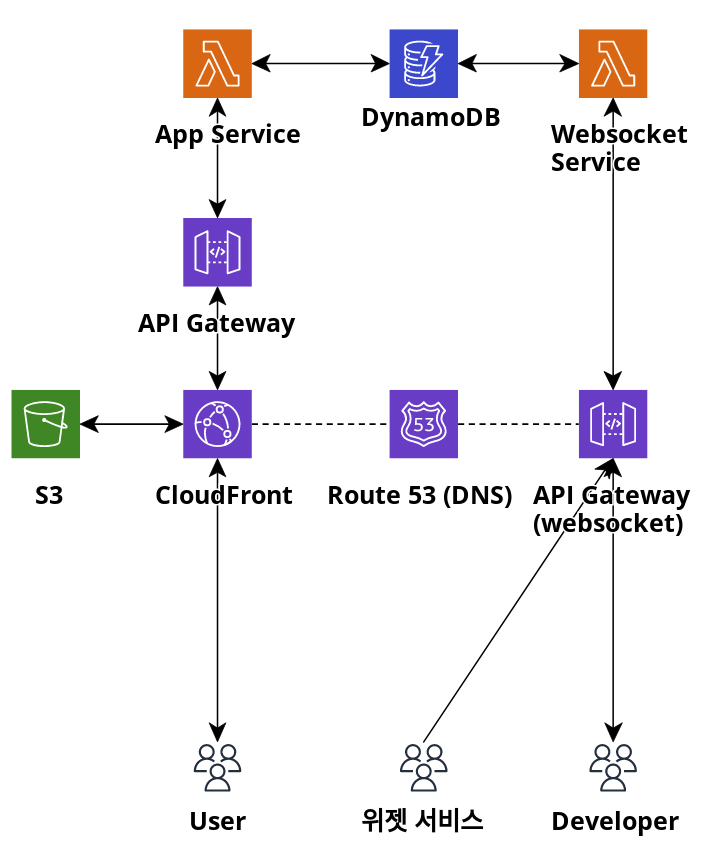
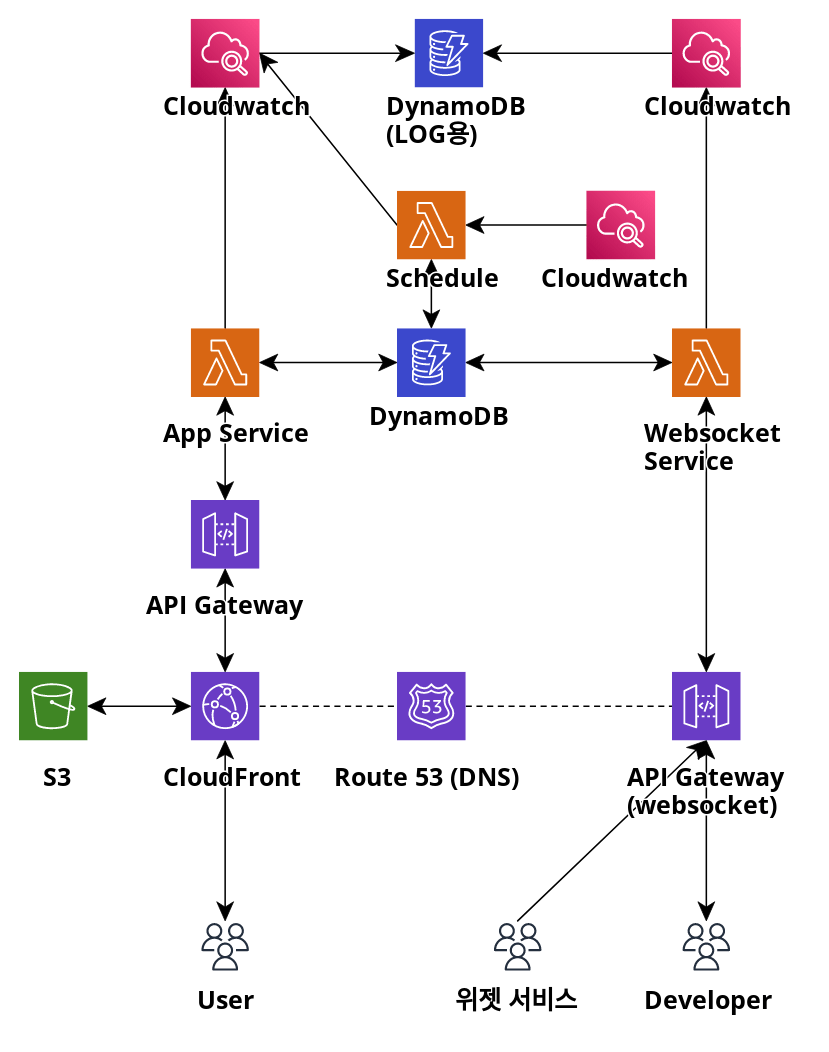
Fix: 소켓 커넥션 체크 기능 추가 및 커넥션 TTL 갱신 로직 변경

diff --git a/libraries/awsDynamodb.js b/libraries/awsDynamodb.js
@@ -73,39 +73,6 @@ class awsDynamodb {
   }
 
   /**
-   * get unique SK
-   * @description 중복되지 않는 정렬키를 생성합니다.
-   * @param {string} PK 파티션키 (required)
-   * @param {string} SKI 정렬키 식별자 (required)
-   *  @example ALERTBOX#{ID}의 아이디를 가져올때는 SK에 "ALERTBOX" 입력
-   *  @example CMD#{ID}의 아이디를 가져올때는 SK에 "CMD" 입력
-   * @param {number} length SKI의 길이 (optional)
-   * @returns {object} 결과값
-   */
-  async getUniqueSK(PK, SKI, length = 9) {
-    log.info("┃libraries│awsDynamodb│getUniqueSK");
-    log.info("┃libraries│awsDynamodb│getUniqueSK┃PK", PK);
-    log.info("┃libraries│awsDynamodb│getUniqueSK┃SKI", SKI);
-    log.info("┃libraries│awsDynamodb│getUniqueSK┃length", length);
-
-    if (!PK) throw new Error("PK is required");
-    if (!SKI) throw new Error("SKI is required");
-
-    let SK;
-    do {
-      let rand = [];
-      const letters =
-        "abcdefghijklmnopqrstuvwxyzABCDEFGHIJKLMNOPQRSTUVWXYZ0123456789";
-      for (let i = 0; i < length; i++) {
-        rand.push(letters[Math.floor(Math.random() * letters.length)]);
-      }
-      SK = SKI + rand.join("");
-    } while (await this.getItem(PK, SK));
-
-    return SK;
-  }
-
-  /**
    * get unique PK
    * @description 전체 파티션에 걸쳐 중복되지 않는 uuid를 생성합니다.
    * @warning PK나 SK에 사용하는 키는 getUniqueSK를 사용하세요.
@@ -172,32 +139,31 @@ class awsDynamodb {
 
     if (!item.PK) throw new Error("PK is required");
 
-    const data = { ...item };
-    delete data.PK;
-    if (data?.SK) delete data.SK;
-    if (Object.keys(data).length == 0)
-      throw new Error("Update data is required");
-
-    let UpdateExpression = "SET";
-    let ExpressionAttributeNames = {};
-    let ExpressionAttributeValues = {};
-    let i = 0;
-    for (const [key, value] of Object.entries(data)) {
-      UpdateExpression += ` #${key} = :${key},`;
-      ExpressionAttributeNames[`#${key}`] = key;
-      ExpressionAttributeValues[`:${key}`] = value;
-      i++;
-    }
-
-    UpdateExpression = UpdateExpression.slice(0, -1);
-
+    // PK와 SK를 조건으로하고 그 외의 키를 업데이트합니다.
+    // SK가 없으면 PK만 조건으로 업데이트합니다.
     const params = {
       TableName: this.table,
       Key: marshall({ PK: item.PK, SK: item.SK }),
-      UpdateExpression,
-      ExpressionAttributeNames,
-      ExpressionAttributeValues,
+      UpdateExpression: `SET ${Object.keys(item)
+        .filter((key) => key !== "PK" && key !== "SK")
+        .map((key) => `#${key} = :${key}`)
+        .join(", ")}`,
+      ExpressionAttributeValues: marshall(
+        Object.keys(item)
+          .filter((key) => key !== "PK" && key !== "SK")
+          .reduce((acc, key) => {
+            acc[`:${key}`] = item[key];
+            return acc;
+          }, {})
+      ),
+      ExpressionAttributeNames: Object.keys(item)
+        .filter((key) => key !== "PK" && key !== "SK")
+        .reduce((acc, key) => {
+          acc[`#${key}`] = key;
+          return acc;
+        }, {}),
     };
+    log.info("┃libraries│awsDynamodb│updateItem┃params", params);
 
     const command = new UpdateItemCommand(params);
     return await this.client.send(command);

diff --git a/handler/schedule.js b/handler/schedule.js
@@ -1,0 +1,97 @@
+const awsApiGateway = require("../libraries/awsApiGateway");
+const awsDynamoDB = require("../libraries/awsDynamodb");
+
+// log용 전역변수
+console.log(">> process.env.DEBUG", process.env.DEBUG);
+global.log = require("../libraries/log");
+
+exports.handler = async (event, context) => {
+  log.info("==== SCHEDULE START ====");
+
+  const apigw = new awsApiGateway();
+  const dynamodb = new awsDynamoDB();
+
+  // CONNECTION 정보 조회
+  let result = {
+    Items: [],
+    LastEvaluatedKey: null,
+  };
+  let items = [];
+  do {
+    result = await dynamodb.queryItems({
+      KeyConditionExpression: "PK = :PK",
+      ExpressionAttributeValues: {
+        ":PK": `CONNECTION`,
+      },
+      ProjectionExpression: "SK",
+      ExclusiveStartKey: result?.LastEvaluatedKey,
+    });
+    if (result.Items.length > 0) items = items.concat(result.Items);
+  } while (result.LastEvaluatedKey);
+
+  // connection id 별로 정리
+  const connections = {};
+  for (const item of items) {
+    const connectionId = item.SK.split("#")[1];
+    if (!connections[connectionId]) {
+      connections[connectionId] = [];
+    }
+    connections[connectionId].push(item.SK);
+  }
+  log.info("┃handler│schedule│check┃connections", JSON.stringify(connections));
+
+  // 커넥션 별로 반복하면서 check 이벤트 전송
+  // 전송 실패시 3회 재시도
+  // 3회 재시도 실패시 커넥션 삭제
+  for (const connectionId in connections) {
+    const connection = connections[connectionId];
+    let retry = 0;
+    let success = false;
+    while (!success && retry < 3) {
+      try {
+        log.info("┃handler│schedule│check┃send", connectionId);
+        await apigw.sendMessage({
+          ConnectionId: connectionId,
+          Data: "CHECK\t" + connectionId,
+        });
+        success = true;
+      } catch (e) {
+        log.error("┃handler│schedule│check┃send fail", connectionId);
+        retry++;
+      }
+    }
+    if (success) {
+      for (const item of connection) {
+        log.info("┃handler│schedule│check┃update", item);
+        await dynamodb.updateItem({
+          PK: `CONNECTION`,
+          SK: item,
+          ttl: Math.floor(Date.now() / 1000) + 60 * 6 /* 6분 */,
+        });
+      }
+    } else {
+      for (const item of connection) {
+        log.info("┃handler│schedule│check┃delete", item);
+        await dynamodb.deleteItem({
+          PK: `CONNECTION`,
+          SK: item,
+        });
+      }
+      log.info("┃handler│schedule│check┃delete", connectionId);
+      try {
+        await apigw.deleteConnection(connectionId);
+      } catch (e) {
+        log.error("┃handler│schedule│check┃delete fail", connectionId);
+      }
+    }
+  }
+
+  log.info("==== SCHEDULE END ====");
+
+  return {
+    statusCode: 200,
+    body: JSON.stringify({
+      count: Object.keys(connections).length,
+    }),
+  };
+};

diff --git a/handler/websocket.js b/handler/websocket.js
@@ -7,21 +7,24 @@ global.log = require("../libraries/log");
 
 // 소켓 커넥션
 module.exports.connect = async (event) => {
-  log.info("==== WEB SOCKET START ====")
+  log.info("==== WEB SOCKET START ====");
   log.info("┃handler│websocket│connect┃event", JSON.stringify(event, null, 2));
   log.info("┃handler│websocket│connect");
   return { statusCode: 200 };
 };
 
 module.exports.disconnect = async () => {
-  log.info("==== WEB SOCKET START ====")
-  log.info("┃handler│websocket│disconnect┃event", JSON.stringify(event, null, 2));
+  log.info("==== WEB SOCKET START ====");
+  log.info(
+    "┃handler│websocket│disconnect┃event",
+    JSON.stringify(event, null, 2)
+  );
   log.info("┃handler│websocket│disconnect");
   return { statusCode: 200 };
 };
 
 module.exports.message = async (event) => {
-  log.info("==== WEB SOCKET START ====")
+  log.info("==== WEB SOCKET START ====");
   log.info("┃handler│websocket│message┃event", JSON.stringify(event, null, 2));
   log.info("┃handler│websocket│message");
 
@@ -49,21 +52,6 @@ module.exports.message = async (event) => {
     log.info("┃handler│websocket│message┃connection", connection);
 
     if (connection) {
-      // TTL 연장
-      if (connection.ttl > Math.floor(Date.now() / 1000)) {
-        log.info("┃handler│websocket│message┃TTL", connectionId);
-        await dynamodb.updateItemDetail(
-          { PK: `CONNECTION`, SK: `CONNECTION#${connectionId}` },
-          "SET #ttl = :ttl",
-          "begins_with(SK, :SK)",
-          {
-            ":ttl": Math.floor(Date.now() / 1000) + 60 * 5 /* 5분 */,
-            ":SK": `CONNECTION#${connectionId}`,
-          },
-          { "#ttl": "ttl" }
-        );
-      }
-
       // 라우팅
       log.info("┃handler│websocket│message┃routing", command);
       switch (command) {

diff --git a/routes/websocket/cmd.js b/routes/websocket/cmd.js
@@ -31,7 +31,7 @@ module.exports = async function (data, event) {
   await dynamodb.saveItem({
     PK: `CONNECTION`,
     SK: `CONNECTION#${connectionId}`,
-    ttl: Math.floor(Date.now() / 1000) + 60 * 5 /* 5분 */,
+    ttl: Math.floor(Date.now() / 1000) + 60 * 6 /* 6분 */,
     alertbox_idx: alertbox_idx,
     connection_id: connectionId,
     connection_time: Date.now(),
@@ -72,7 +72,7 @@ module.exports = async function (data, event) {
       alertbox_idx: alertbox_idx,
       connection_id: connectionId,
       connection_time: Date.now(),
-      ttl: Math.floor(Date.now() / 1000) + 60 * 5 /* 5분 */,
+      ttl: Math.floor(Date.now() / 1000) + 60 * 6 /* 6분 */,
     })
   }
 }

diff --git a/routes/websocket/join.js b/routes/websocket/join.js
@@ -31,7 +31,7 @@ module.exports = async function (data, event) {
   await dynamodb.saveItem({
     PK: `CONNECTION`,
     SK: `CONNECTION#${connectionId}`,
-    ttl: Math.floor(Date.now() / 1000) + 60 * 5 /* 5분 */,
+    ttl: Math.floor(Date.now() / 1000) + 60 * 6 /* 6분 */,
     alertbox_idx: alertbox_idx,
     connection_id: connectionId,
     connection_time: Date.now(),
@@ -72,7 +72,7 @@ module.exports = async function (data, event) {
       alertbox_idx: alertbox_idx,
       connection_id: connectionId,
       connection_time: Date.now(),
-      ttl: Math.floor(Date.now() / 1000) + 60 * 5 /* 5분 */,
+      ttl: Math.floor(Date.now() / 1000) + 60 * 6 /* 6분 */,
     })
   }
 

diff --git a/routes/websocket/ping.js b/routes/websocket/ping.js
@@ -6,6 +6,7 @@ const awsApiGateway = require("../../libraries/awsApiGateway");
  */
 module.exports = async function (data, event) {
   const apigw = new awsApiGateway();
+  const connectionId = event.requestContext.connectionId;
   return await apigw.sendMessage({
     ConnectionId: connectionId,
     Data: "PING\tPONG",

diff --git a/.github/docs/dynamodb.md b/.github/docs/dynamodb.md
@@ -11,7 +11,7 @@ dynamodb는 AWS의 권장사항에 따라 Single Table Design을 채택하였습
 |||CMD#{ID}|Alert Box Cmd 정보|
 |alertbox uid|ALERTBOX|UID#{UID}|Alert Box UID 매칭 정보|
 |connection|CONNECTION|CONNECTION#{ID}|Socket Connection 정보|
-|||CONNECTION|CONNECTION#{ID}|CONNECTION#{ID}#ROOM#{ROOM}|Connection 연결된 룸 정보|
+||CONNECTION|CONNECTION#{ID}#ROOM#{ROOM}|Connection 연결된 룸 정보|
 |uuid|UUID#{ID}|UUID#{ID}|UUID 정보|
 
 ## 엑세스 패턴
